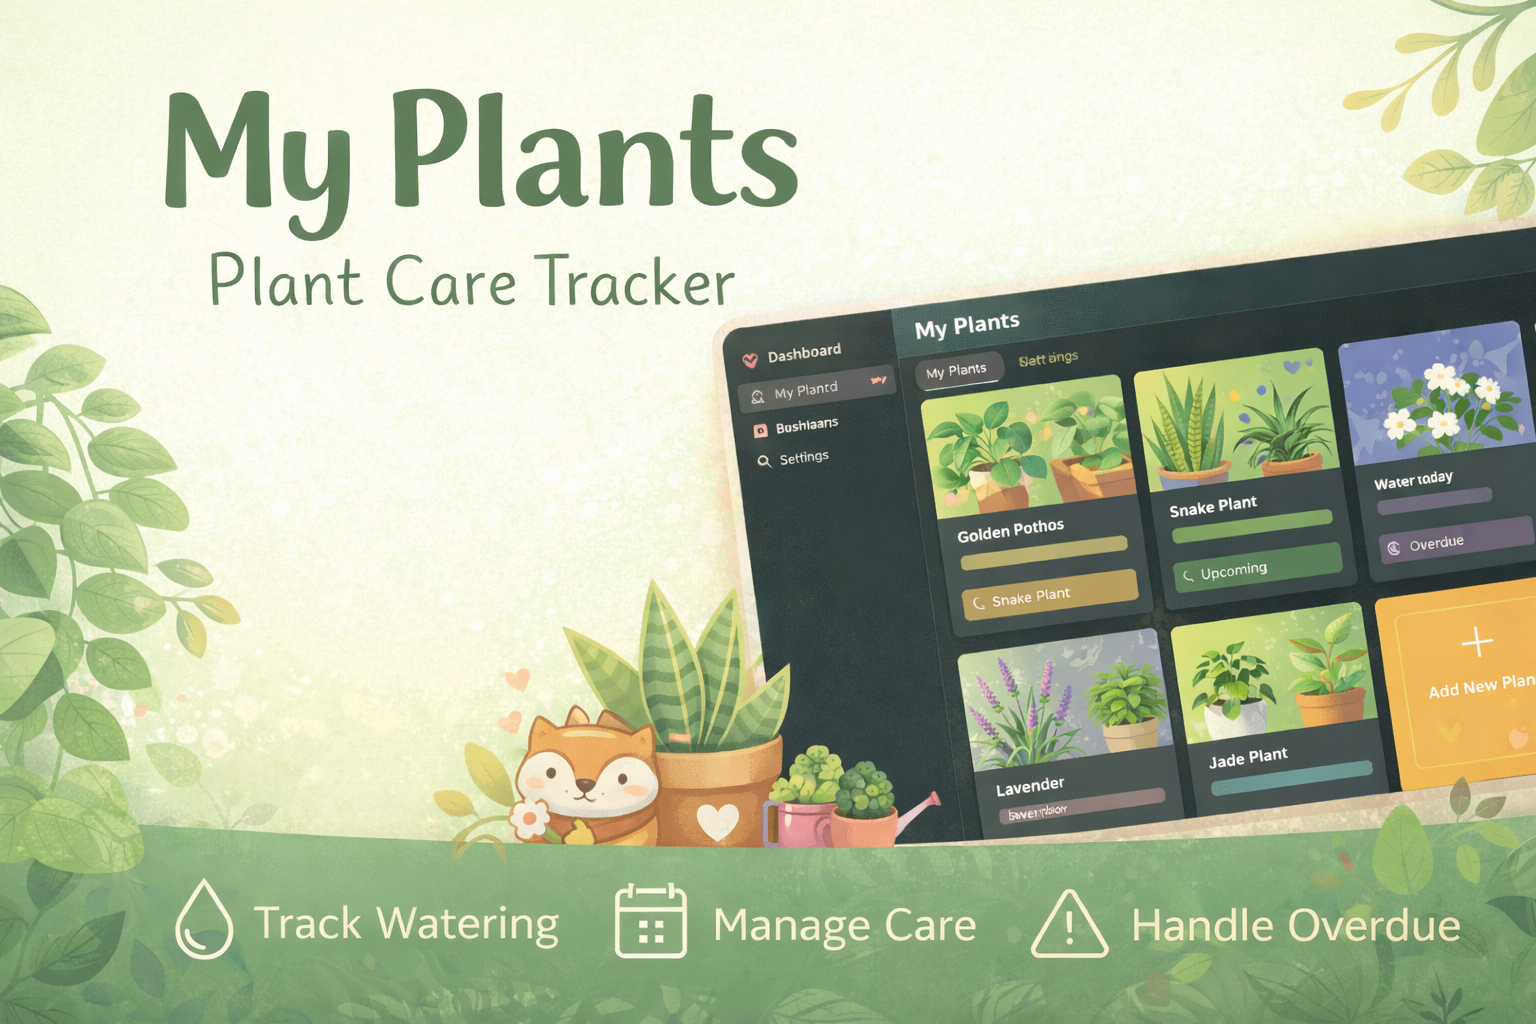
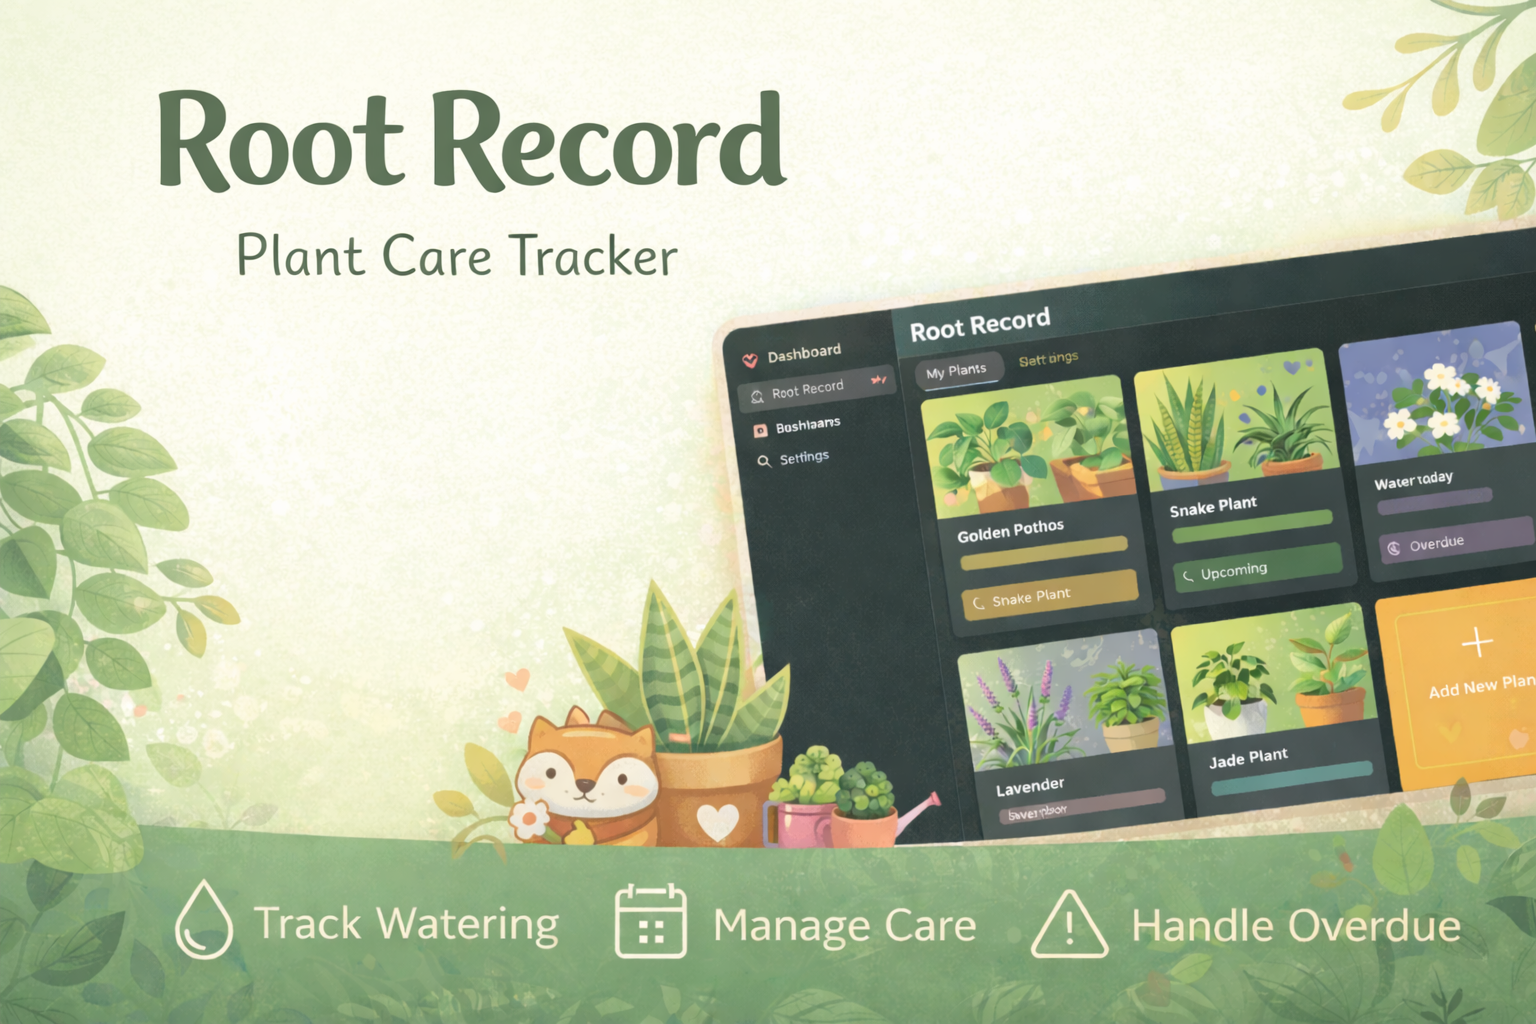
Branding name change

diff --git a/index.html b/index.html
@@ -7,7 +7,7 @@
   <meta name="viewport" content="width=device-width, initial-scale=1.0" />
 
   <!-- Basic SEO -->
-  <title>My Plants – Plant Care Tracker</title>
+  <title>Root Rescue – Plant Care Tracker</title>
   <meta
     name="description"
     content="A simple plant care tracker to manage watering schedules, overdue plants, and daily care."
